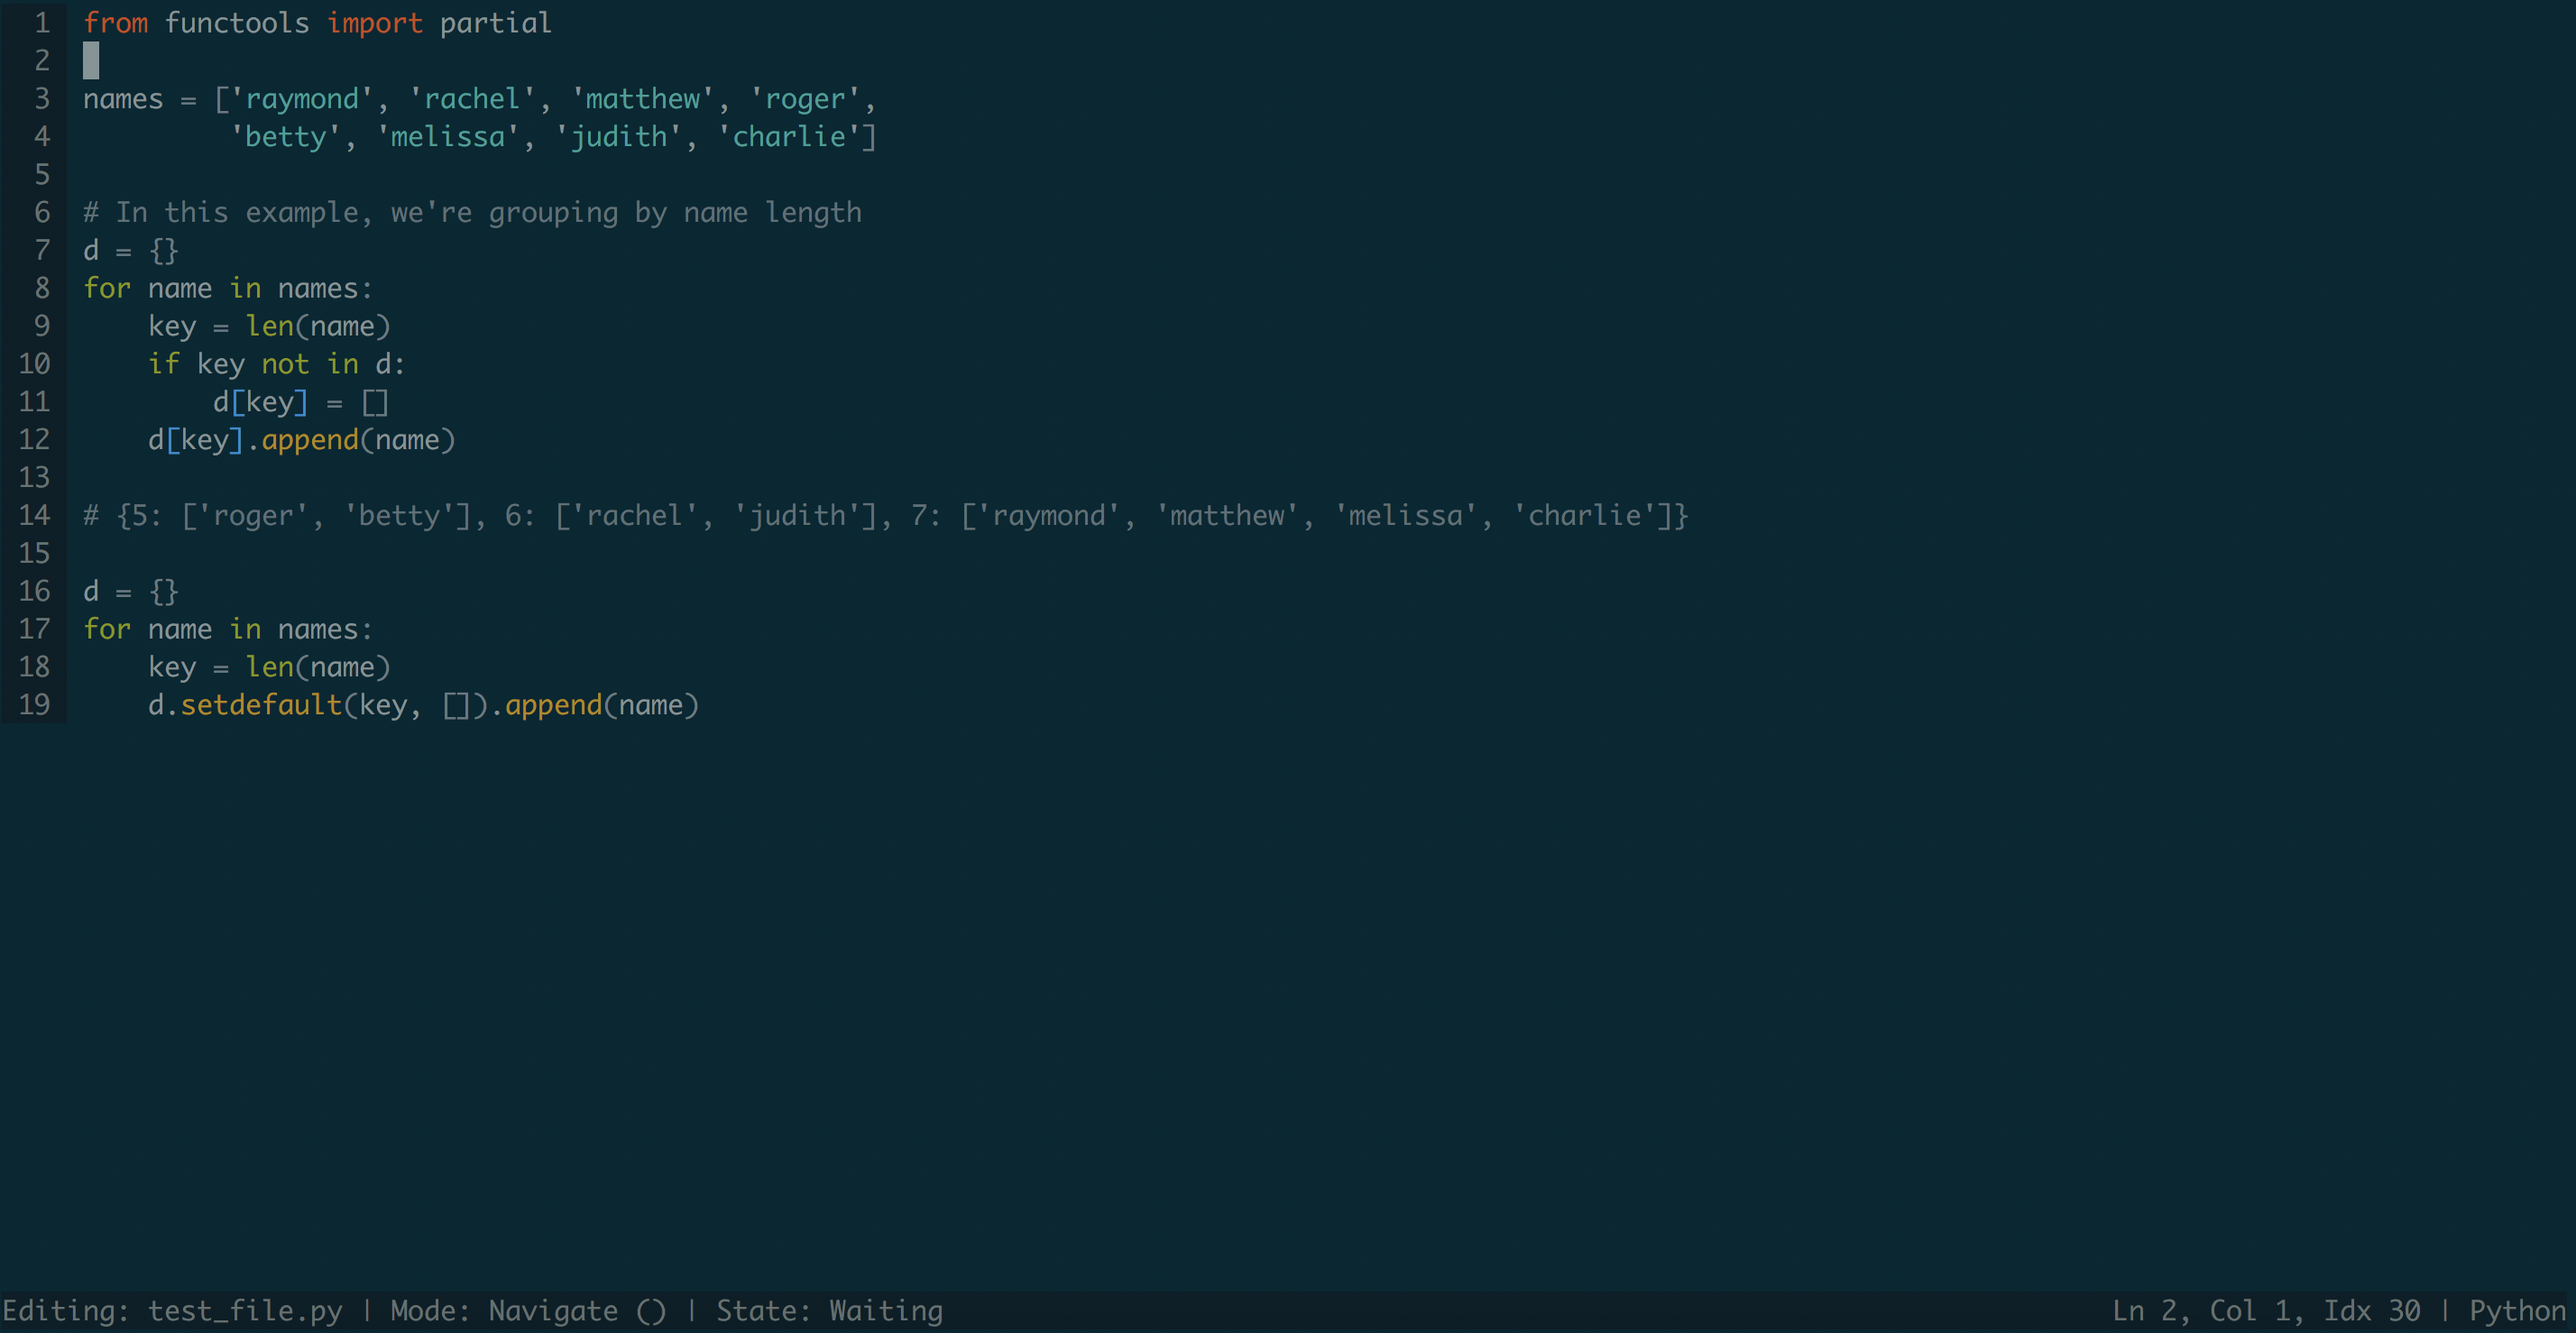
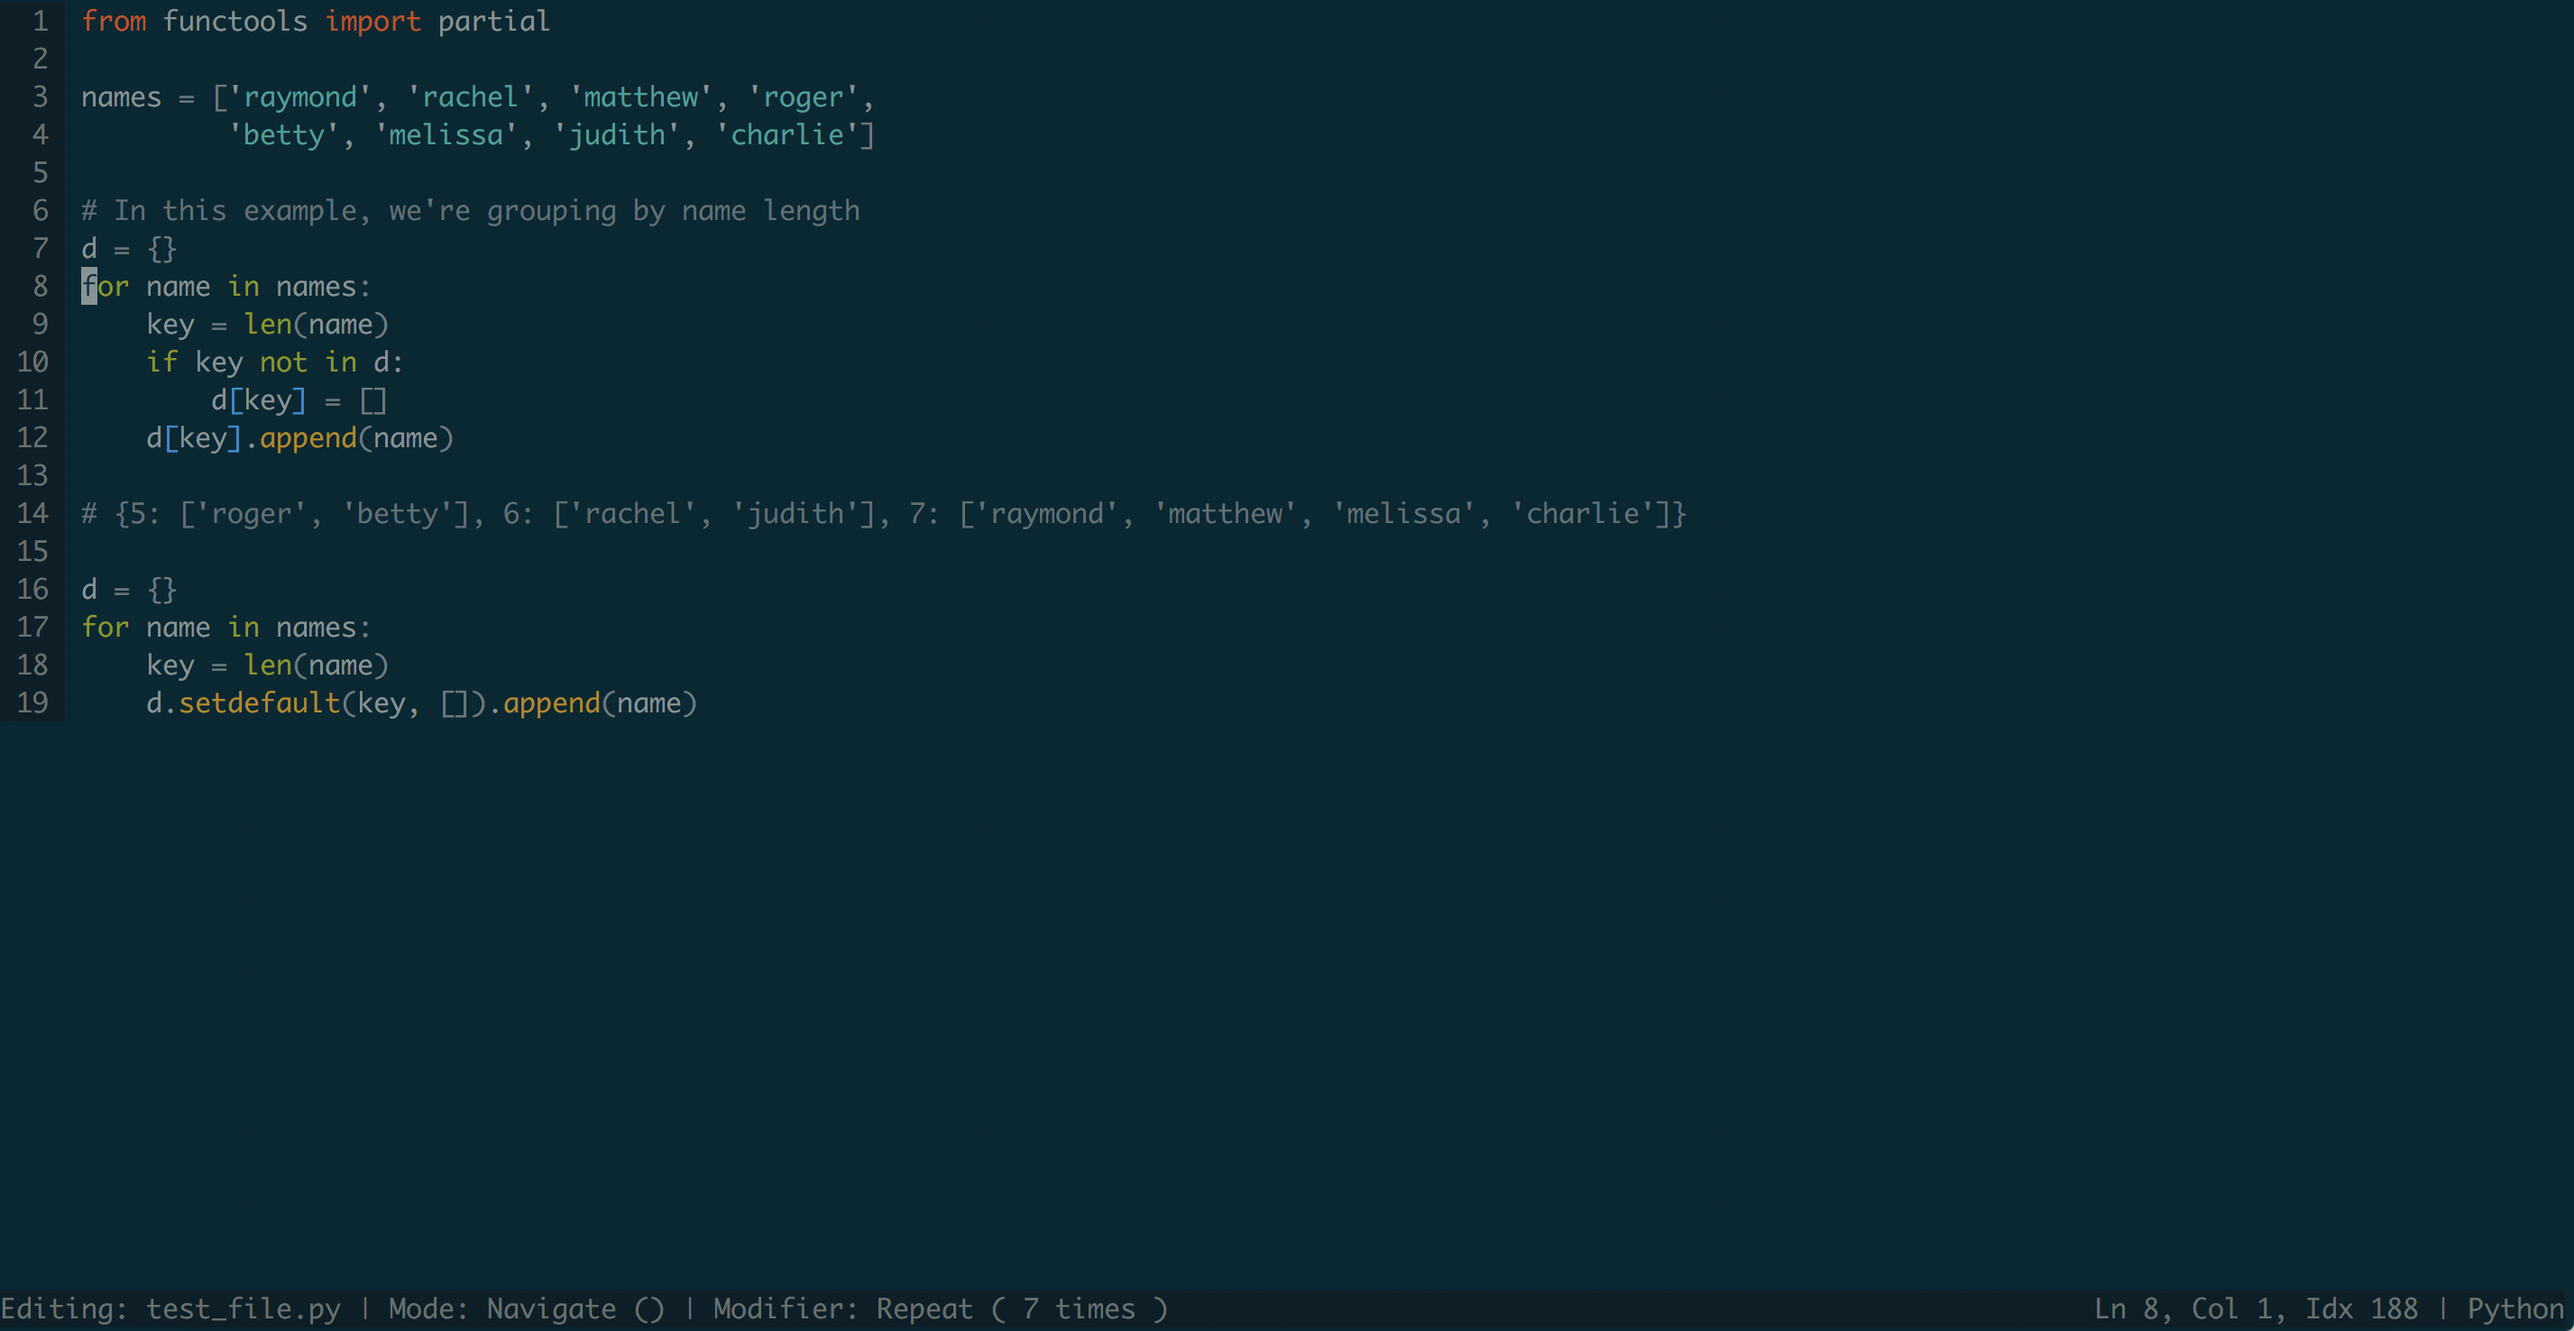
Display modifier in status bar, update screenshot

diff --git a/src/controller/input.rs b/src/controller/input.rs
@@ -1,8 +1,7 @@
-use std::cmp;
+use std::fmt;
 use std::process::exit;
 
 use termion::event::{Event, Key};
-use termion::clear;
 
 use controller::util::{repeater_chain_to_usize, repeat_state_op};
 use data::editor_state::{StateApi, EditorState, Mode};
@@ -17,6 +16,17 @@ pub enum ExprState {
     Argument,  // Argument to a function - leads to terminal state.
     Repeater { times: String },  // We've received a repeater (prefixing number), so we know the next state has to be another number, a function or a terminal character
     Operator { iterations: usize },  // e.g. 'w' to move to start of next word - leads to terminal state.
+}
+
+impl fmt::Display for ExprState {
+    fn fmt(&self, f: &mut fmt::Formatter) -> fmt::Result {
+        match *self {
+            ExprState::Waiting => write!(f, "No modifiers active"),
+            ExprState::Repeater { ref times } => write!(f, "Repeat ( {} times )", times),
+            ExprState::Operator { ref iterations } => write!(f, "Operator ( {} iterations )", iterations),
+            ref expr @ _ => write!(f, "{:?}", expr)
+        }
+    }
 }
 
 pub trait ModeInputHandler {
@@ -97,7 +107,6 @@ impl ModeInputHandler for NavigateModeInputHandler {
 
             _ => move_to_state = ExprState::Operator { iterations: 1 },
         }
-
         let mut finalised_state = move_to_state.clone();
         self.goto_state(state_api, move_to_state);
 
@@ -110,6 +119,7 @@ impl ModeInputHandler for NavigateModeInputHandler {
                     Event::Key(Key::Char('j')) | Event::Key(Key::Down) => repeat_state_op(iterations, &StateApi::cursor_line_down, state_api),
                     Event::Key(Key::Char('k')) | Event::Key(Key::Up) => repeat_state_op(iterations, &StateApi::cursor_line_up, state_api),
 
+                    // Content aware navigation
                     Event::Key(Key::Char('w')) => repeat_state_op(iterations, &StateApi::cursor_start_next_word, state_api),
                     Event::Key(Key::Char('b')) => repeat_state_op(iterations, &StateApi::cursor_start_prev_word, state_api),
                     Event::Key(Key::Char('$')) => state_api.cursor_end_of_line(),

diff --git a/src/view/terminal.rs b/src/view/terminal.rs
@@ -69,7 +69,7 @@ fn draw_status_line<W: Write>(out: &mut W, term_height: usize, term_width: usize
     let mode_input_buf: String = state.get_mode_input_buffer().into_iter().collect();
     let mode_text = format!("{} ({})", state.get_mode(), mode_input_buf);
     let left_side = format!(
-        "Editing: {file_name} | Mode: {mode} | State: {state:?}",
+        "Editing: {file_name} | Mode: {mode} | Modifier: {state}",
         file_name=state.get_active_file_name(),
         mode=mode_text,
         state=state.expression_state
